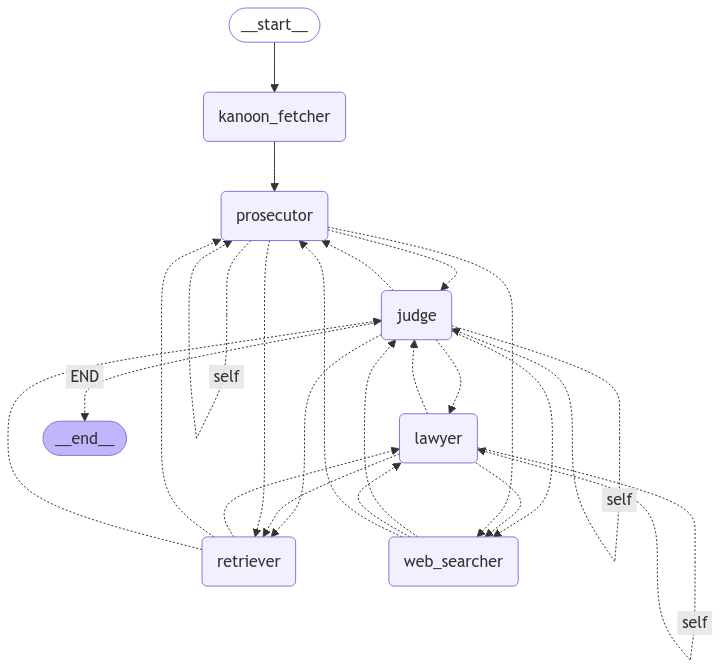
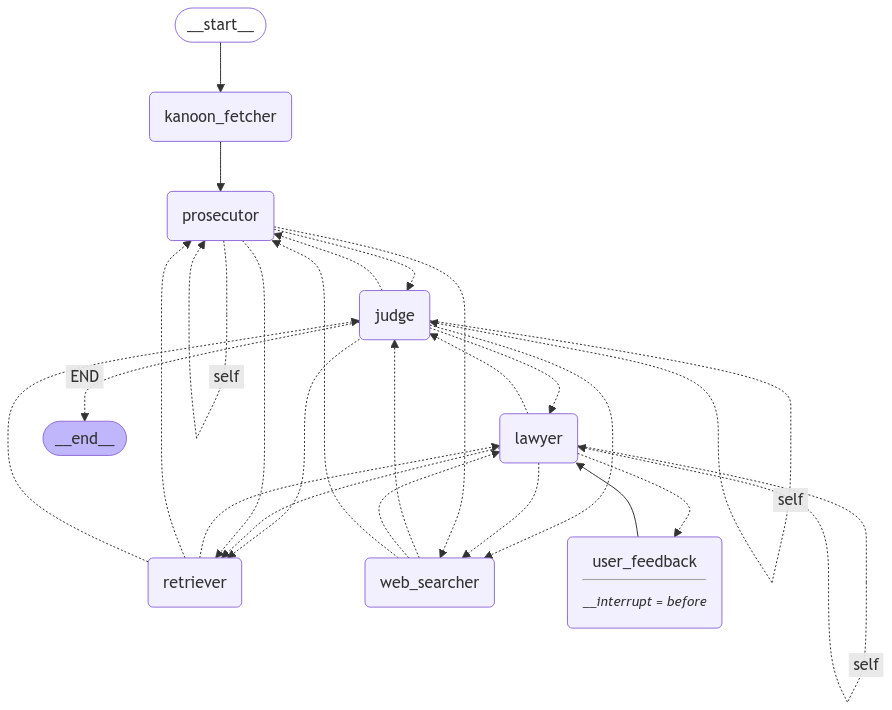
graph updated

diff --git a/core/workflow.py b/core/workflow.py
@@ -26,8 +26,8 @@ class TrialWorkflow:
         self.retriever = retriever # or RetrieverAgent(docs=docs)
         self.kanoon_fetcher = kanoon_fetcher
         self.web_searcher = web_searcher
-        self.graph = self._create_graph()
         self.memory = MemorySaver()
+        self.graph = self._create_graph()
     
     def _create_graph(self) -> StateGraph:
         """Create the trial workflow graph"""
@@ -46,7 +46,7 @@ class TrialWorkflow:
         # Start with judge
         workflow.add_edge(START, "kanoon_fetcher")
         workflow.add_edge("kanoon_fetcher", "prosecutor")
-        workflow.add_edge("user_feedback", "Lawyer")
+        workflow.add_edge("user_feedback", "lawyer")
         
         # Judge manages the flow
         workflow.add_conditional_edges(
@@ -181,8 +181,10 @@ class TrialWorkflow:
         )
 
         print(f"Initial state: {initial_state}")
+
+        thread = {"configurable": {"thread_id": "1"}}
         
-        async for a in self.graph.astream(initial_state):
+        async for a in self.graph.astream(initial_state,thread):
             print(a)
             print("-"*100)
 
@@ -191,7 +193,7 @@ class TrialWorkflow:
         while True:
             self.graph.update_state(values={"user_feedback": user_input}, as_node="user_feedback")  
 
-            async for a in self.graph.astream(None):
+            async for a in self.graph.astream(None,thread):
                 print(a)
                 print("-"*100)
             try:
